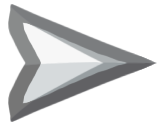
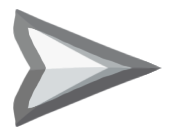
Add arrow customization

diff --git a/TownOfUs/Assets/TouAssets.cs b/TownOfUs/Assets/TouAssets.cs
@@ -173,10 +173,53 @@ public static class TouAssets
     public static LoadableAsset<Sprite> AuAvengersSprite { get; } =
         new LoadableResourceAsset($"{ShortPath}.AuAvengers.png", 290);
 
-    public static LoadableAsset<Sprite> ArrowSprite { get; } = new LoadableResourceAsset($"{ShortPath}.Arrow.png", 110);
+    public static LoadableAsset<Sprite> ArrowSprite
+    {
+        get
+        {
+            var sprite = ArrowBasicSprite;
+            switch (TownOfUsPlugin.ArrowStyle.Value)
+            {
+                case 1:
+                    sprite = ArrowDarkOutSprite;
+                    break;
+                case 2:
+                    sprite = ArrowLightOutSprite;
+                    break;
+                case 3:
+                    sprite = ArrowLegacySprite;
+                    break;
+            }
+            return sprite;
+        }
+    }
+    public static string ArrowSpriteName
+    {
+        get
+        {
+            var name = "Default";
+            switch (TownOfUsPlugin.ArrowStyle.Value)
+            {
+                case 1:
+                    name = "Dark Glow";
+                    break;
+                case 2:
+                    name = "Color Glow";
+                    break;
+                case 3:
+                    name = "Legacy";
+                    break;
+            }
+            return name;
+        }
+    }
 
-    public static LoadableAsset<Sprite> BasicArrowSprite { get; } =
-        new LoadableResourceAsset($"{ShortPath}.Arrow-OLD.png");
+    public static LoadableAsset<Sprite> ArrowBasicSprite { get; } = new LoadableResourceAsset($"{ShortPath}.Arrow.png", 110);
+    public static LoadableAsset<Sprite> ArrowDarkOutSprite { get; } = new LoadableResourceAsset($"{ShortPath}.ArrowDarkOut.png", 110);
+    public static LoadableAsset<Sprite> ArrowLightOutSprite { get; } = new LoadableResourceAsset($"{ShortPath}.ArrowLightOut.png", 110);
+    
+    public static LoadableAsset<Sprite> ArrowLegacySprite { get; } =
+        new LoadableResourceAsset($"{ShortPath}.ArrowLegacy.png");
 
     public static LoadableAsset<Sprite> CrimeSceneSprite { get; } =
         new LoadableResourceAsset($"{ShortPath}.CrimeScene.png");

diff --git a/TownOfUs/Patches/LocalOnlySettingPatches.cs b/TownOfUs/Patches/LocalOnlySettingPatches.cs
@@ -117,7 +117,7 @@ public static class LocalSettings
                     var title = optionsMenu.transform.FindChild("ButtonScaleFloat");
                     if (title != null && title.transform.GetChild(2).TryGetComponent<TextMeshPro>(out var txt))
                     {
-                        txt.text = $"Button UI Scale Factor: {Math.Round(newVal, 2)}x";
+                        txt.text = $"Button Scale Factor: {Math.Round(newVal, 2)}x";
                     }
                 }
 
@@ -148,6 +148,35 @@ public static class LocalSettings
             ObjName = "PreciseCooldowns",
             OnClick = () => { return TownOfUsPlugin.PreciseCooldowns.Value = !TownOfUsPlugin.PreciseCooldowns.Value; },
             DefaultValue = TownOfUsPlugin.PreciseCooldowns.Value
+        },
+        new()
+        {
+            Title = $"Arrow Style: {TouAssets.ArrowSpriteName}",
+            ObjName = "ArrowStyle",
+            OnClick = () =>
+            {
+                var newVal = TownOfUsPlugin.ArrowStyle.Value + 1;
+                if (newVal is < 0 or > 3)
+                {
+                    newVal = 0;
+                }
+
+                TownOfUsPlugin.ArrowStyle.Value = newVal;
+
+                var optionsMenu = GameObject.Find("Menu(Clone)") ? GameObject.Find("Menu(Clone)") : GameObject.Find("OptionsMenu(Clone)");
+
+                if (optionsMenu != null)
+                {
+                    var title = optionsMenu.transform.FindChild("ArrowStyle");
+                    if (title != null && title.transform.GetChild(2).TryGetComponent<TextMeshPro>(out var txt))
+                    {
+                        txt.text = $"Arrow Style: {TouAssets.ArrowSpriteName}";
+                    }
+                }
+
+                return TownOfUsPlugin.ArrowStyle.Value <= 0;
+            },
+            DefaultValue = TownOfUsPlugin.ArrowStyle.Value <= 0
         }
     ];
 

diff --git a/TownOfUs/TownOfUsPlugin.cs b/TownOfUs/TownOfUsPlugin.cs
@@ -50,6 +50,7 @@ public partial class TownOfUsPlugin : BasePlugin, IMiraPlugin
     public static ConfigEntry<bool> OffsetButtons { get; set; }
     public static ConfigEntry<bool> SortGuessingByAlignment { get; set; }
     public static ConfigEntry<bool> PreciseCooldowns { get; set; }
+    public static ConfigEntry<int> ArrowStyle { get; set; }
 
     /// <inheritdoc />
     public string OptionsTitleText => "TOU Mira";
@@ -100,6 +101,8 @@ public partial class TownOfUsPlugin : BasePlugin, IMiraPlugin
             "Sorts the guessing menu by alignment alphabetically or purely alphabetical order.");
         PreciseCooldowns = Config.Bind("LocalSettings", "PreciseCooldowns", false,
             "Whether Button Cooldowns Show To 1 Decimal Place When It is Less Than 10 Seconds Remaining.");
+        ArrowStyle = Config.Bind("LocalSettings", "ArrowStyle", 2,
+            "How role arrows appear. 0 is the basic arrow, 1 is the arrow with a dark glow, 2 is the arrow with a light glow, and 3 is the legacy arrow / task arrow.");
 
         Harmony.PatchAll();
 
